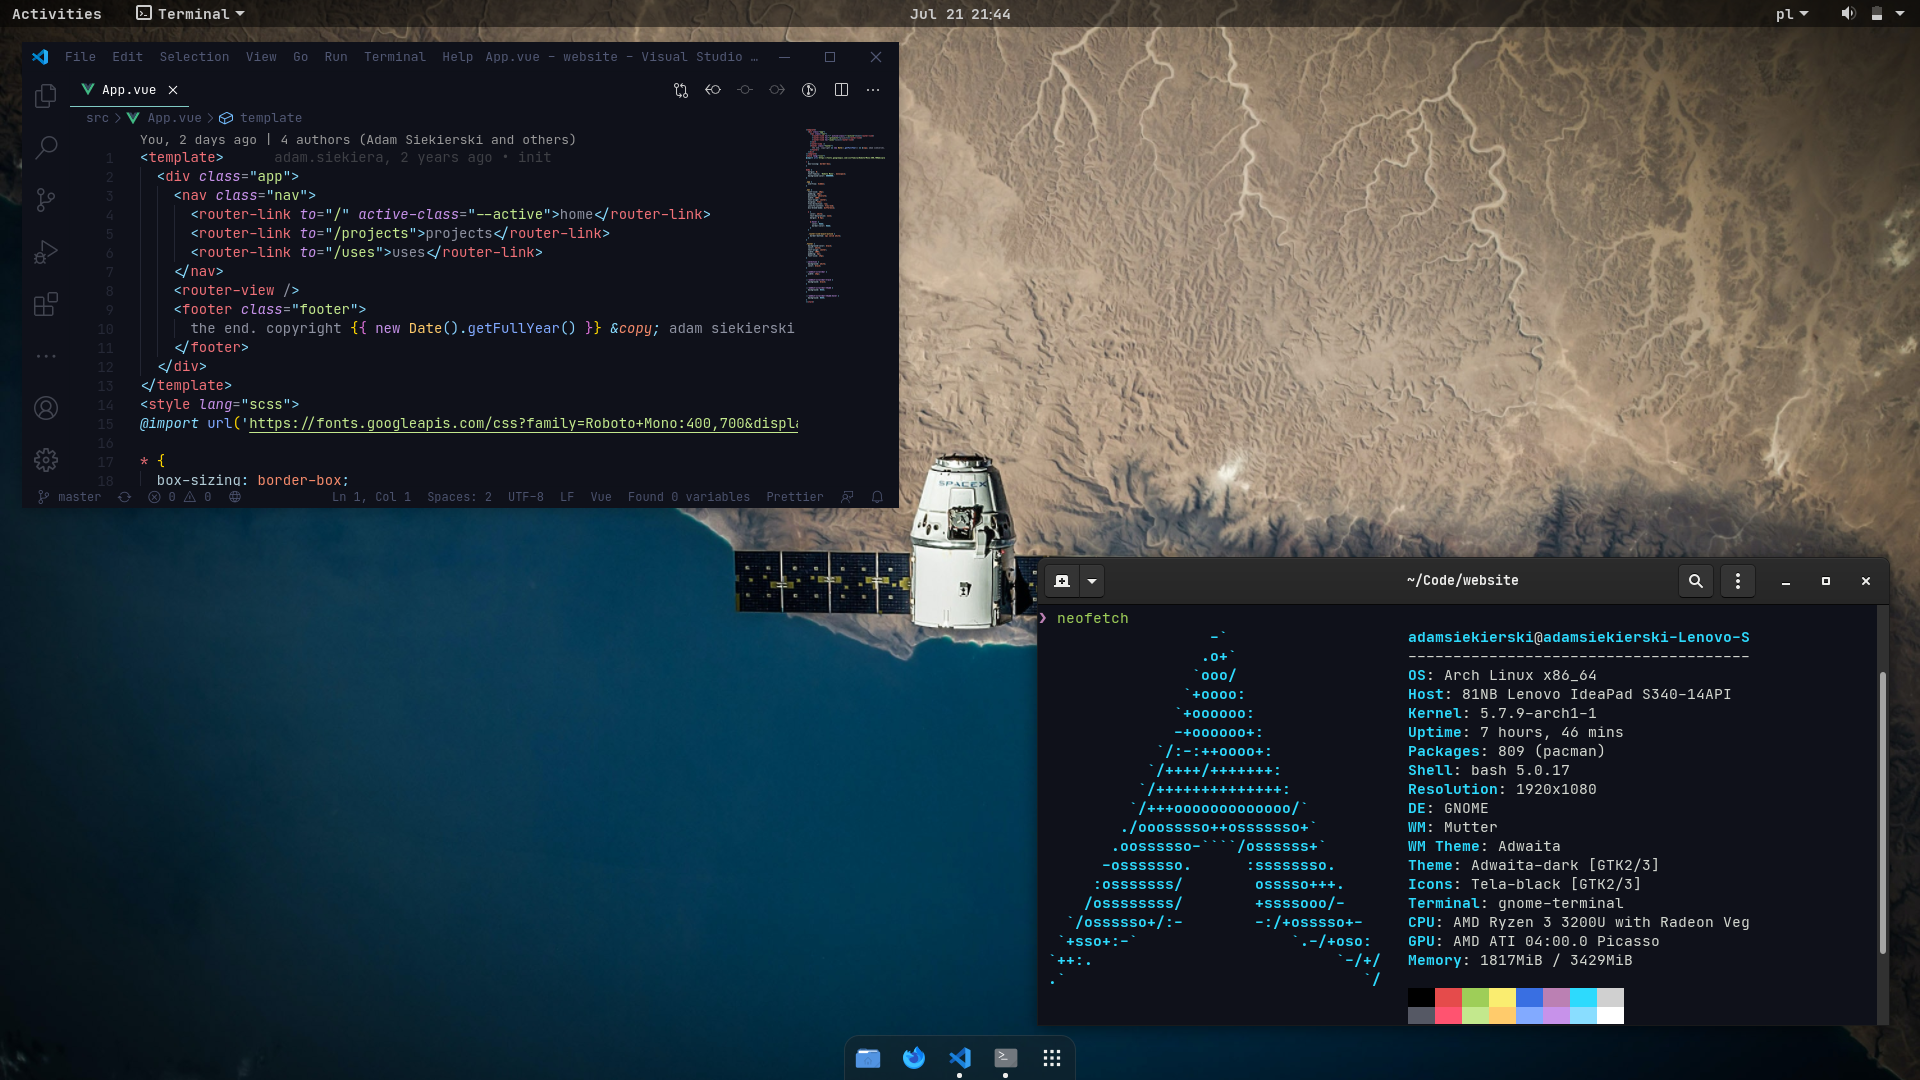
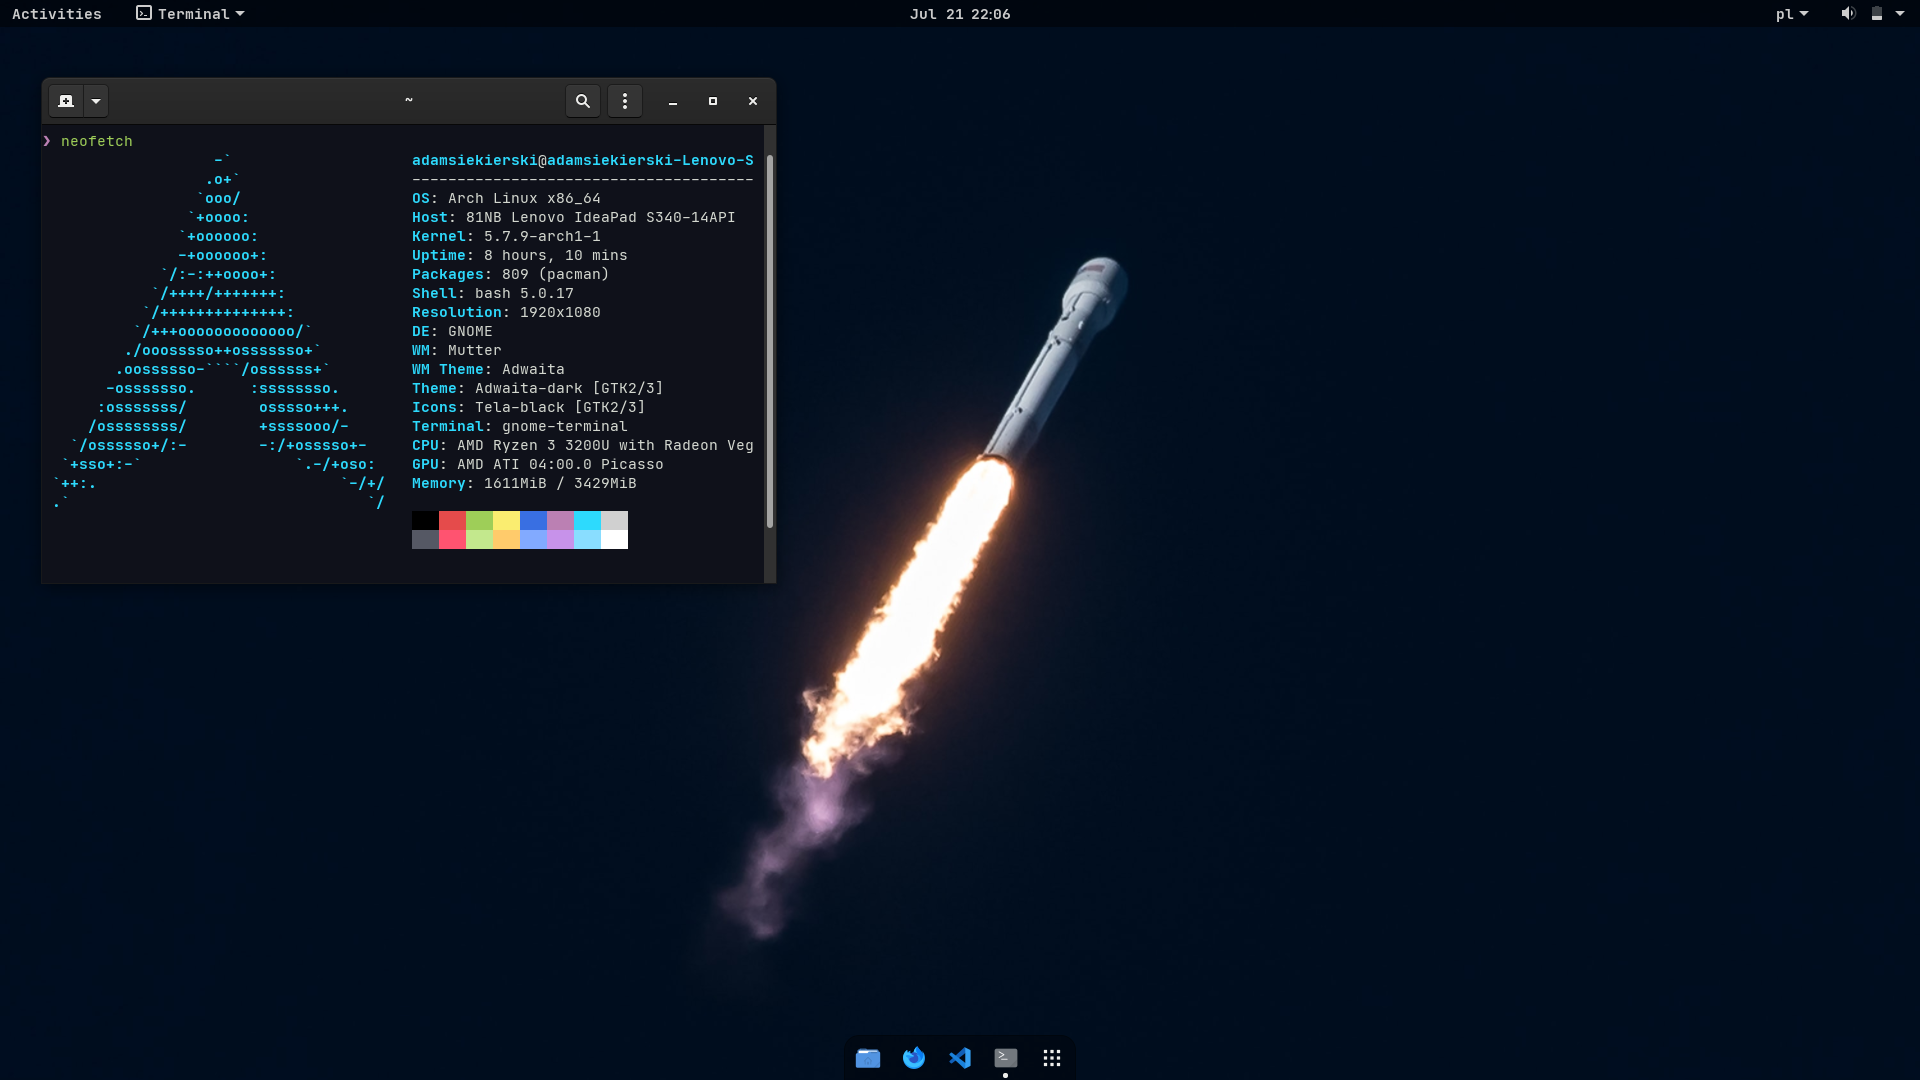
New wallpaper

diff --git a/readme.md b/readme.md
@@ -20,7 +20,7 @@ My Arch Linux Setup
 
 - Theme: `Adwaita Dark`
 - Icons: `Tela Black`
-- Background: https://unsplash.com/photos/VBNb52J8Trk
+- Background: https://unsplash.com/photos/pnPS3Ox_2vE
 - Font: `JetBrains Mono`
 - Extensions:
   - Dash to dock
